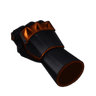
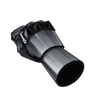
Curseurs : acier argenté et fer noir (plus d'orange rouille)
Claude-Session: https://claude.ai/code/session_0146Ahif6waR1P8s7ctFtwsu

Changed region(s): [[0.125, 0.1875, 0.875, 0.9062]]

diff --git a/src/styles/global.css b/src/styles/global.css
@@ -70,7 +70,7 @@ html.screens, html.screens body { height: 100%; overflow: hidden; overscroll-beh
 
 /* ---------- accessibilité ---------- */
 /* curseur : gantelet (fichier fourni), point chaud à la pointe ; le curseur système reste pour les champs de texte */
-/* curseurs : gantelet médiéval (THTH, domaine public), recoloré en fer noirci et braise ; 48 px, version 2× pour Retina */
+/* curseurs : gantelet médiéval (THTH, domaine public), recoloré en acier argenté et fer noir ; 48 px, version 2× pour Retina */
 html { cursor: url(/cur-default.png) 2 3, auto !important; cursor: -webkit-image-set(url(/cur-default.png) 1x, url(/cur-default-2x.png) 2x) 2 3, auto !important; cursor: image-set(url(/cur-default.png) 1x, url(/cur-default-2x.png) 2x) 2 3, auto !important; }
 a, button, [role='button'], label, summary, select, [data-go], [data-copy], .prog { cursor: url(/cur-pointer.png) 2 3, auto !important; cursor: -webkit-image-set(url(/cur-pointer.png) 1x, url(/cur-pointer-2x.png) 2x) 2 3, auto !important; cursor: image-set(url(/cur-pointer.png) 1x, url(/cur-pointer-2x.png) 2x) 2 3, auto !important; }
 .obj a, .stage { cursor: url(/cur-grab.png) 2 3, auto !important; cursor: -webkit-image-set(url(/cur-grab.png) 1x, url(/cur-grab-2x.png) 2x) 2 3, auto !important; cursor: image-set(url(/cur-grab.png) 1x, url(/cur-grab-2x.png) 2x) 2 3, auto !important; }
